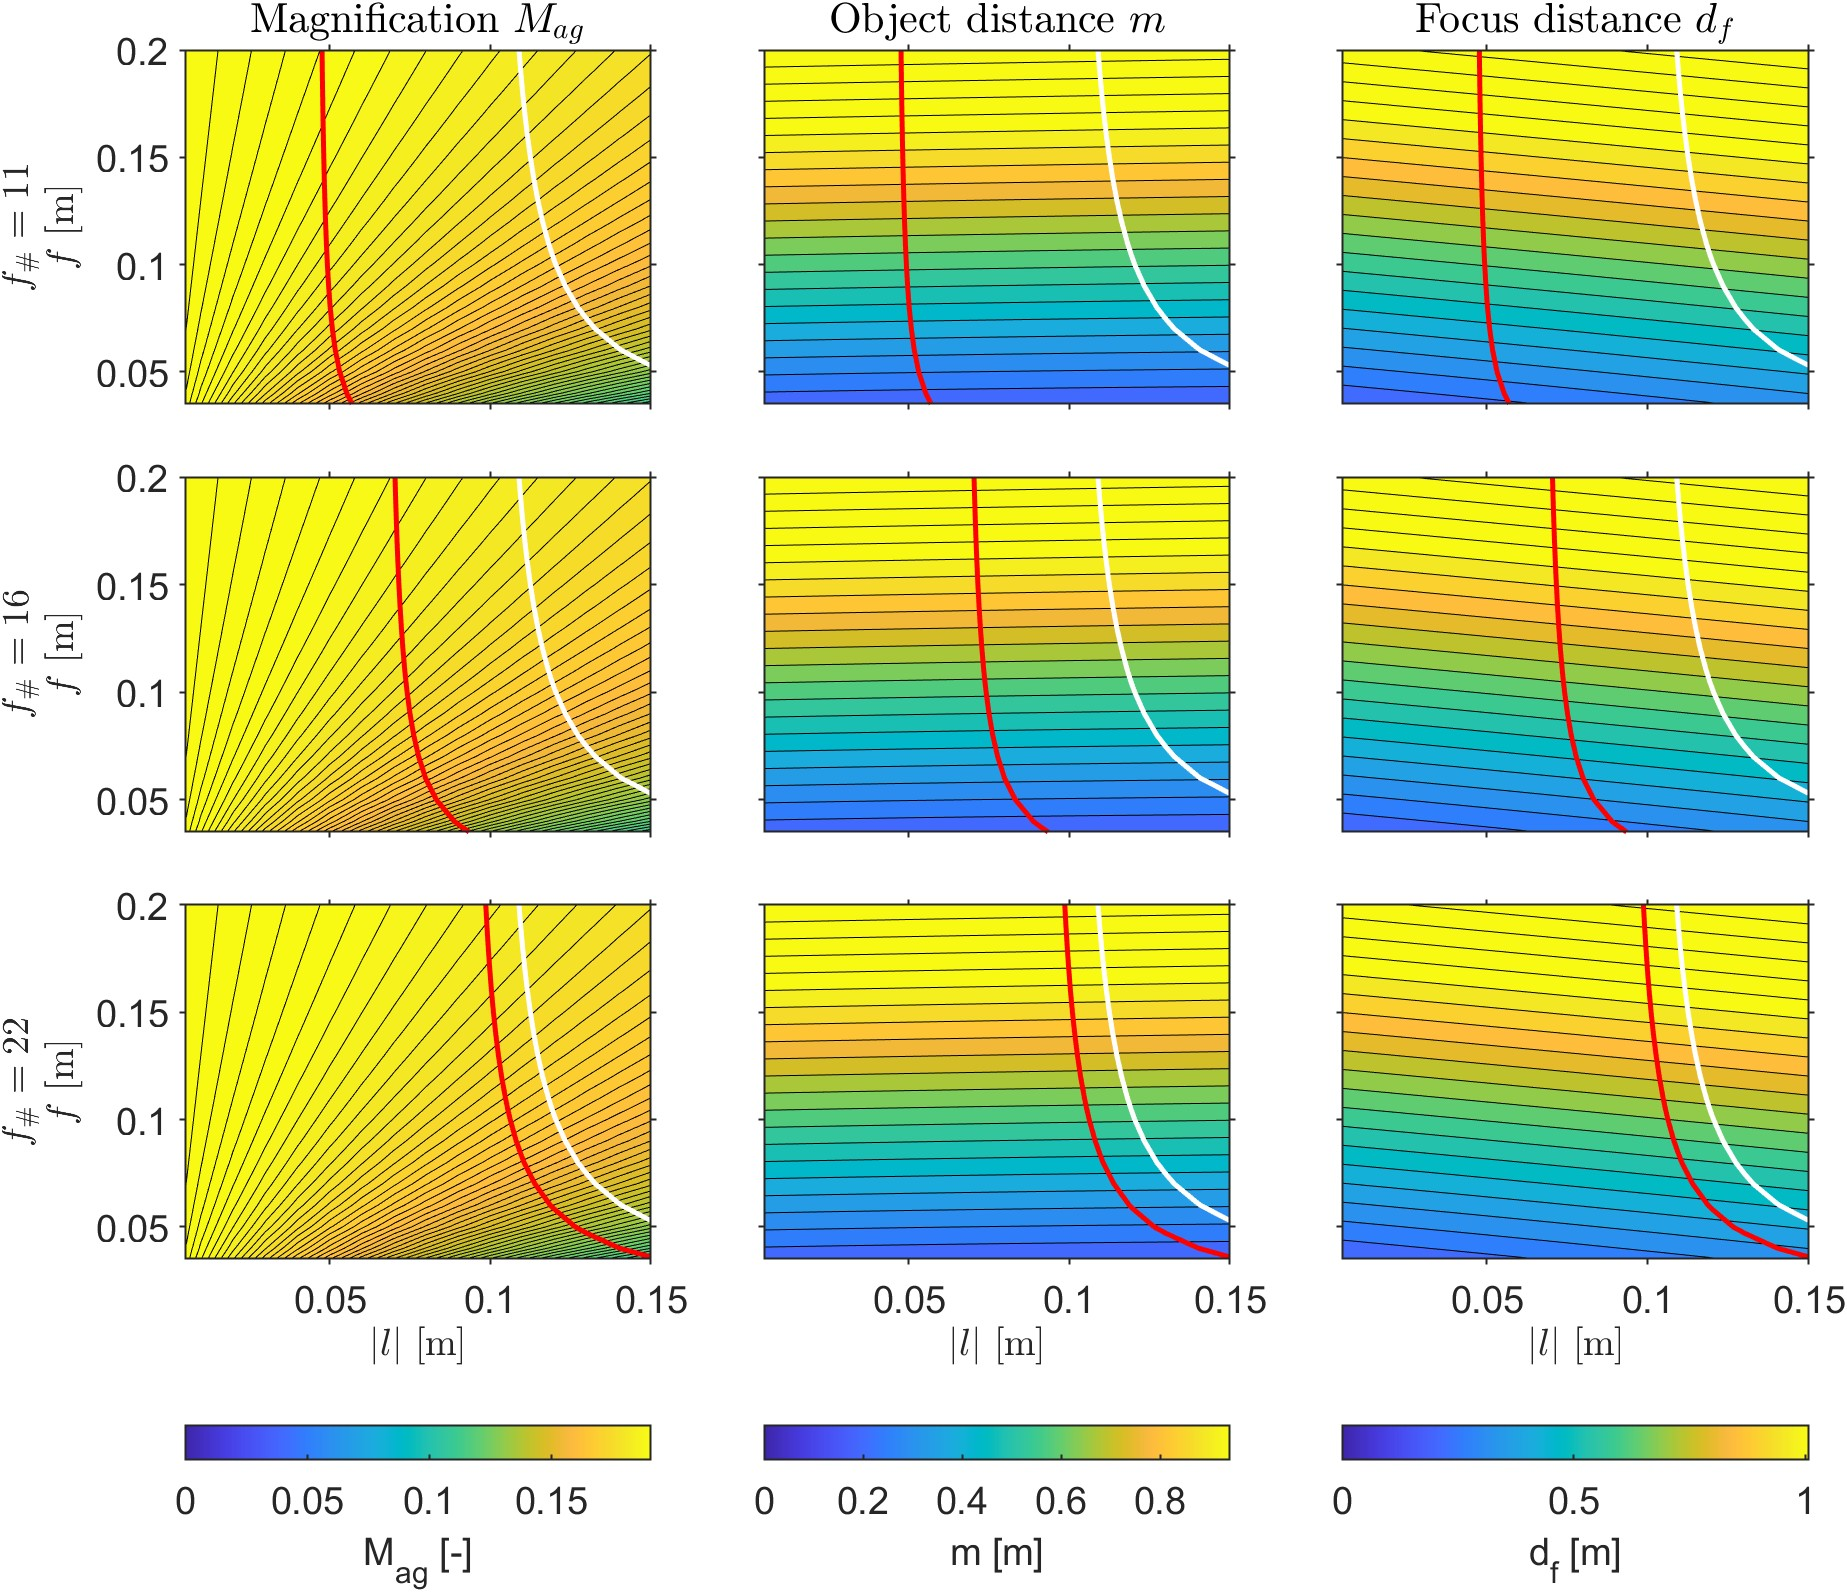
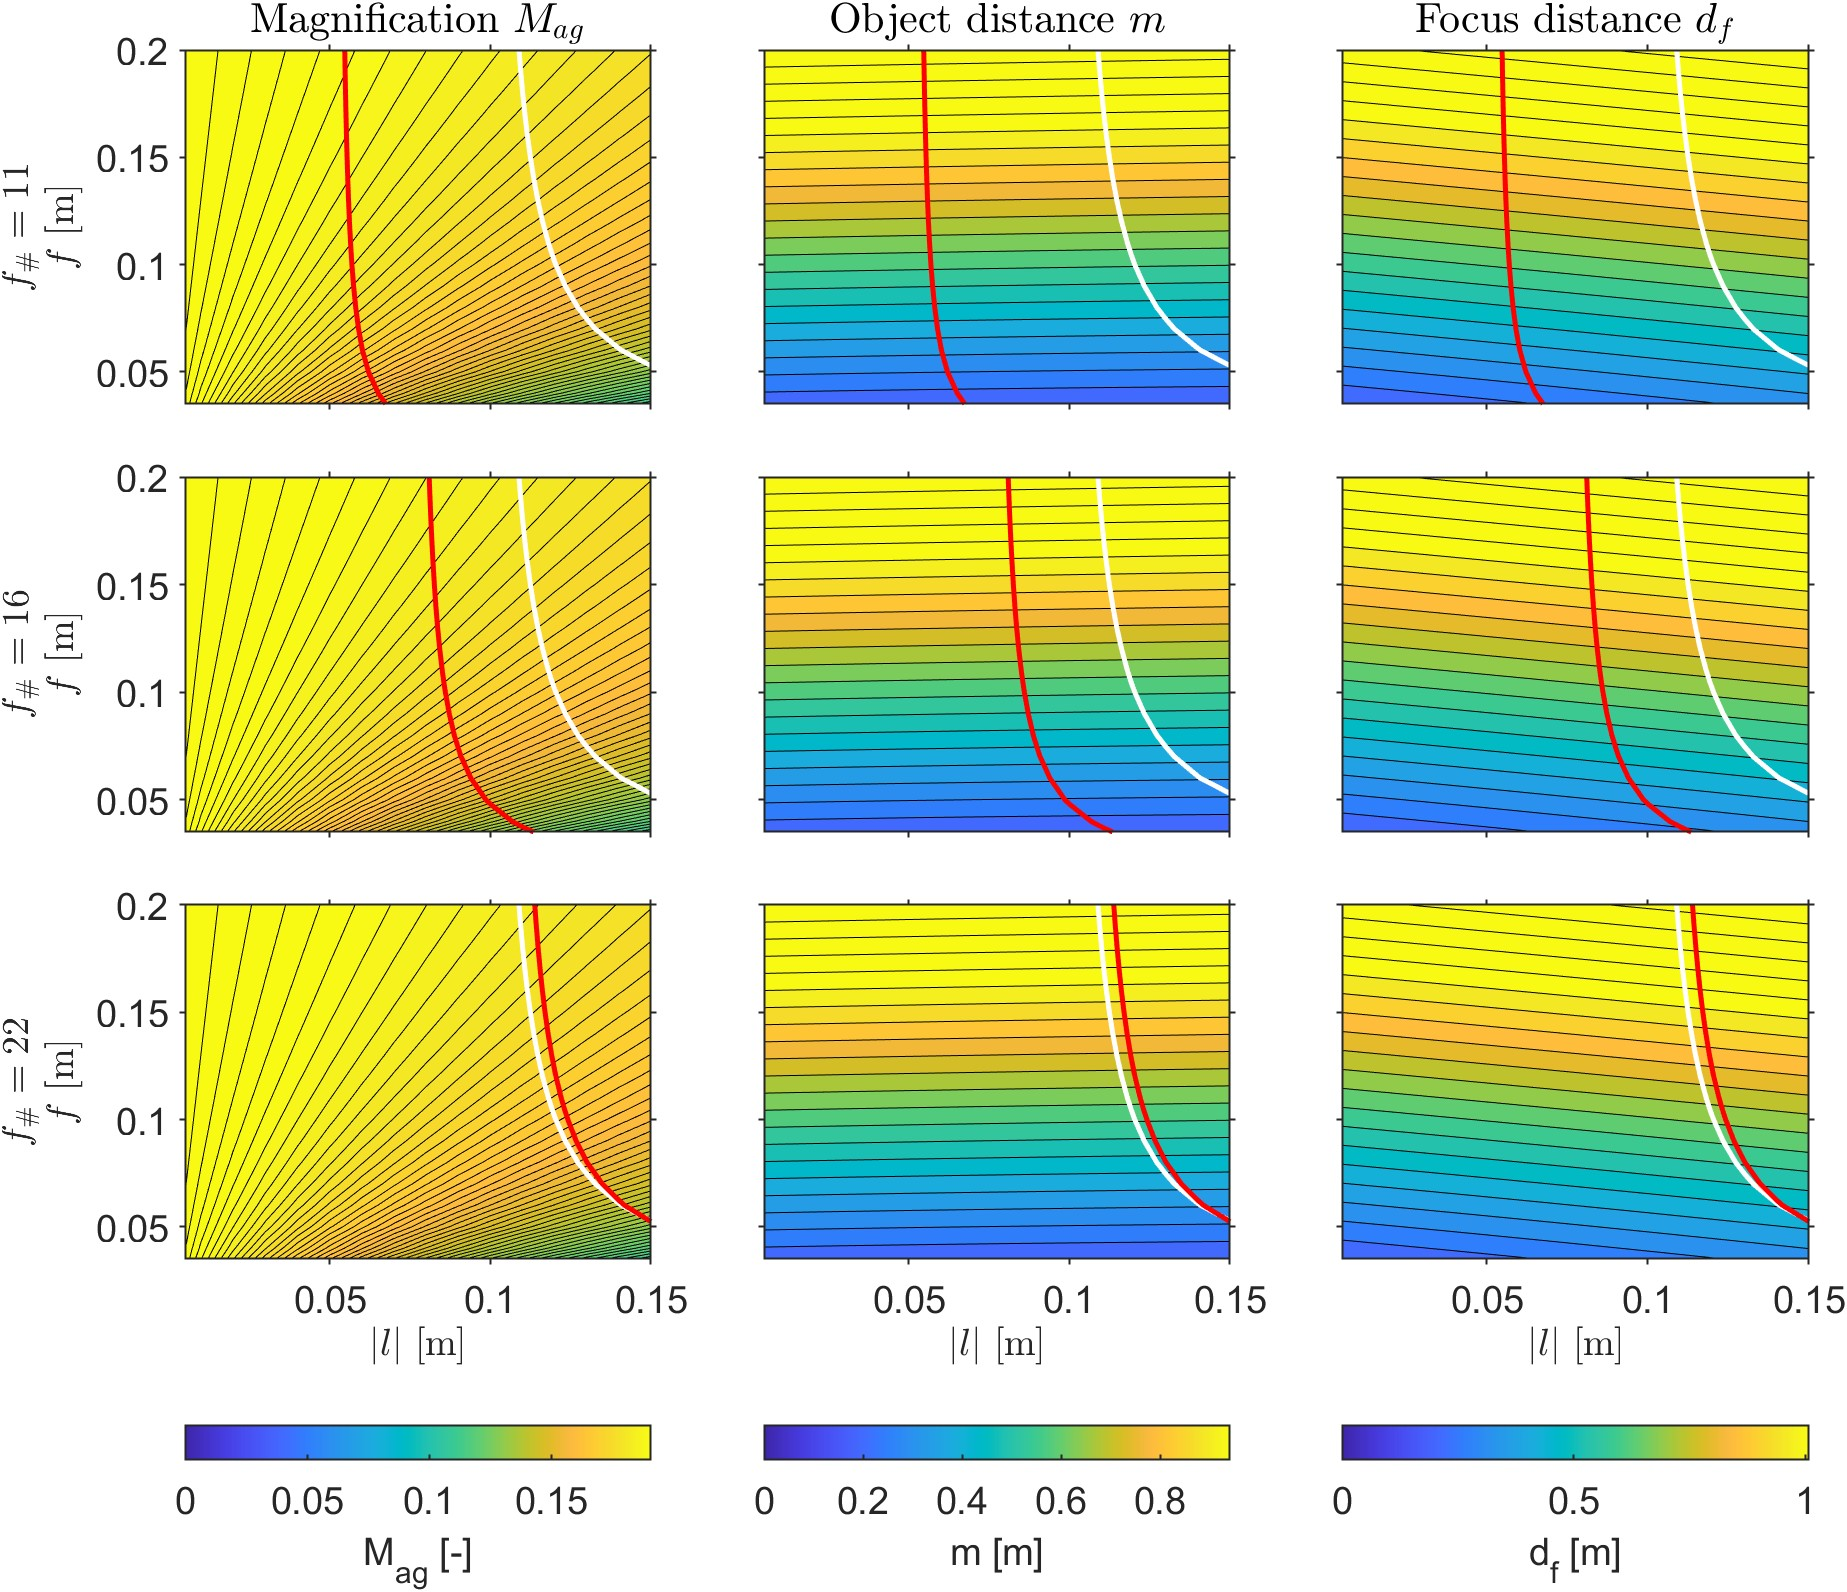
images

diff --git a/mainmatter/06_results.tex b/mainmatter/06_results.tex
@@ -294,7 +294,7 @@ Table \ref{tab: speckle results} and Figure \ref{fig: speckle size per point} sh
 
 \begin{figure}[htbp]
     \centering
-    \includegraphics[width=\textwidth]{figures/speckle size per point.jpg}
+    \includegraphics[width=\textwidth]{figures/speckle size per point.png}
     \caption[Average speckle size across the speckle investigation campaign]{Average speckle size of every point of Table \ref{tab: speckle results}, computed with the autocorrelation method of Hamarová et al. \cite{Hamarova2016} and with the DaVis function. The dashed lines separate the $f_\#$ and $d_{GG}$ sweeps, the magnification sweep and the projected speckle points. DaVis returned no value for point 10}
     \label{fig: speckle size per point}
 \end{figure}
@@ -332,7 +332,7 @@ Now that the error and uncertainties of the results have been discussed, the dat
 
 \begin{figure}[htbp]
     \centering
-    \includegraphics[width=\textwidth]{figures/speckle exp f-number sweep.png}
+    \includegraphics[width=0.9\textwidth]{figures/speckle exp f-number sweep.png}
     \caption[Average speckle size against f-stop number]{Average speckle size versus f-stop number for the four aperture sweeps of the speckle investigation campaign. The red and yellow lines correspond to points 1--3 and 4--6, which share $d_{GG} = 740$ mm at two different magnifications. The purple line corresponds to points 11--13, acquired at $d_{GG} = 300$ mm, and the green line to points 29--31, obtained with projected speckles at the same $d_{GG}$. The light blue line shows direct speckles interpolated to match the configuration of points 29--31}
     \label{fig: speckle f-number sweep}
 \end{figure}
@@ -345,7 +345,7 @@ As explained in chapter \ref{chapter: methodology}, the dependency on magnificat
 
 \begin{figure}[htbp]
     \centering
-    \includegraphics[width=\textwidth]{figures/speckle exp mag sweep.jpg}
+    \includegraphics[width=0.9\textwidth]{figures/speckle exp mag sweep.png}
     \caption[Average speckle size against optical magnification]{Average speckle size versus optical magnification for points 14--28 of Table \ref{tab: speckle results}, acquired at a fixed $f_\# = 22.63$ and $d_{GG} = 300$ mm. The magnification of these points was obtained from the distance marks of the camera lens rather than with the calibration plate}
     \label{fig: speckle magnification sweep}
 \end{figure}
@@ -357,7 +357,7 @@ Figure \ref{fig: speckle f-number sweep} also hints to the effect of the distanc
 
 \begin{figure}[htbp]
     \centering
-    \includegraphics[width=\textwidth]{figures/Speckle d_GG Sweep.jpg}
+    \includegraphics[width=0.9\textwidth]{figures/Speckle d_GG Sweep.png}
     \caption[Average speckle size against beam expander distance]{Average speckle size versus the distance between the beam expander lens and the ground glass diffuser, for points 5 and 7--10 of Table \ref{tab: speckle results}, all acquired at $f_\# = 11.31$ and $M_{ag_{exp}} = 0.296$}
     \label{fig: speckle dGG sweep}
 \end{figure}

diff --git a/appendix/appendix-c.tex b/appendix/appendix-c.tex
@@ -37,14 +37,14 @@
 \begin{figure}[htbp]
     \centering
     \includegraphics[width=1\textwidth]{figures/M,m,df surfmaps SBOS 70mm.jpg}
-    \caption[Surface maps of $M_{ag}$, $m$ and $d_f$ at 7 cm, negative defocus]{Surface maps of $M_{ag}$, $m$ and $d_f$ for $f_\# \in $ [11,16,22],  $f \in $ (0.035,0.200), $l \in$ (0.005,0.15) and $L_{FoV_{obj}}=$ 7cm of a negative defocus setup, with the red isoline representing the points where $s_{min}$ =0.00035 m and the white line showing $S=0.02$}
+    \caption[Surface maps of $M_{ag}$, $m$ and $d_f$ at 7 cm, negative defocus]{Surface maps of $M_{ag}$, $m$ and $d_f$ for $f_\# \in $ [11,16,22],  $f \in $ (0.035,0.200), $l \in$ (0.005,0.15) and $L_{FoV_{obj}}=$ 7cm of a negative defocus setup, with the red isoline representing the points where $s_{min}$ =0.0004 m and the white line showing $S=0.02$}
     \label{fig: M,m,df surfmap SBOS 70mm}
 \end{figure}
 
 \begin{figure}[htbp]
     \centering
     \includegraphics[width=1\textwidth]{figures/M,m,df surfmaps BOS 70mm.jpg}
-    \caption[Surface maps of $M_{ag}$, $m$ and $d_f$ at 7 cm, positive defocus]{Surface maps of $M_{ag}$, $m$ and $d_f$ for $f_\# \in $ [11,16,22],  $f \in $ (0.035,0.200), $l \in$ (0.005,0.15) and $L_{FoV_{obj}}=$ 7cm of a positive defocus setup, with the red isoline representing the points where $s_{min}$ =0.00035 m and the white line showing $S=0.02$}
+    \caption[Surface maps of $M_{ag}$, $m$ and $d_f$ at 7 cm, positive defocus]{Surface maps of $M_{ag}$, $m$ and $d_f$ for $f_\# \in $ [11,16,22],  $f \in $ (0.035,0.200), $l \in$ (0.005,0.15) and $L_{FoV_{obj}}=$ 7cm of a positive defocus setup, with the red isoline representing the points where $s_{min}$ =0.0004 m and the white line showing $S=0.02$}
     \label{fig: M,m,df surfmap BOS 70mm}
 \end{figure}
 
@@ -61,6 +61,6 @@
     \caption{}
     \label{fig: Delta s surfmap BOS 70mm}
   \end{subfigure}
-  \caption[Surface maps of $\Delta s$ at 7 cm]{Surface maps of $\Delta s$ for $f_\# \in $ [11,16,22],  $f \in $ (0.035,0.200), $l \in$ (0.005,0.15) and $L_{FoV_{obj}}=$ 7cm of a negative defocus setup (a) and a positive defocus setup (b), with the red isoline representing the points where $s_{min}$ =0.00035 m and the white line showing $S=0.02$}
+  \caption[Surface maps of $\Delta s$ at 7 cm]{Surface maps of $\Delta s$ for $f_\# \in $ [11,16,22],  $f \in $ (0.035,0.200), $l \in$ (0.005,0.15) and $L_{FoV_{obj}}=$ 7cm of a negative defocus setup (a) and a positive defocus setup (b), with the red isoline representing the points where $s_{min}$ =0.0004 m and the white line showing $S=0.02$}
   \label{fig: Delta s surfmap 70mm}
 \end{figure}

diff --git a/mainmatter/04_methodology.tex b/mainmatter/04_methodology.tex
@@ -217,7 +217,7 @@ follow from Equations \ref{equation: smin} and \ref{equation: Rayleigh Limit}. T
 
 \subsection{Effect of FoV}
 \label{subsection: Effects of FoV}
-\par Even though the proof of concept experiment will use a small field of view, the effect of scaling the field of view will be investigated to generalize the presented guidelines. Surface maps will be used to compare the trends in sensitivity and spatial resolution of negative and positive defocus setups when the $L_{FoV_{obj}}$ is changed from 2 cm to 7 cm. Figure \ref{fig: Surface maps altering FoV} shows these graphs, surface maps for other parameters can be found in Appendix \ref{Appendix: Supplementary Surface Maps}. For this case, the red isoline value has been slightly modified to $s_{min}$ =0.00035 m. However it still allows the comparison with previous images given the very small difference between them.
+\par Even though the proof of concept experiment will use a small field of view, the effect of scaling the field of view will be investigated to generalize the presented guidelines. Surface maps will be used to compare the trends in sensitivity and spatial resolution of negative and positive defocus setups when the $L_{FoV_{obj}}$ is changed from 2 cm to 7 cm. Figure \ref{fig: Surface maps altering FoV} shows these graphs, surface maps for other parameters can be found in Appendix \ref{Appendix: Supplementary Surface Maps}. The isolines keep the same values as the previous sections, $s_{min}$ =0.0004 m in red and $S$ = 0.02 in white, so both field of view cases can be read directly against each other.
 
 \begin{figure}[htbp]
   \centering
@@ -230,7 +230,7 @@ follow from Equations \ref{equation: smin} and \ref{equation: Rayleigh Limit}. T
     \includegraphics[width=\textwidth]{figures/Sensitivity and smin BOS surf map 70mm.jpg}
     \caption{}
   \end{subfigure}
-  \caption[Surface maps for a 7 cm field of view]{Surface maps of $S$ and $s_{min}$ for $f_\# \in $ [11,16,22],  $f \in $ (0.035,0.200), $l \in$ (0.005,0.15) and $L_{FoV_{obj}}=$ 7cm of a negative defocus setup (a) and a positive defocus setup (b), with the red isoline representing the points where $s_{min}$ =0.00035 m and the white line showing $S=0.02$}
+  \caption[Surface maps for a 7 cm field of view]{Surface maps of $S$ and $s_{min}$ for $f_\# \in $ [11,16,22],  $f \in $ (0.035,0.200), $l \in$ (0.005,0.15) and $L_{FoV_{obj}}=$ 7cm of a negative defocus setup (a) and a positive defocus setup (b), with the red isoline representing the points where $s_{min}$ =0.0004 m and the white line showing $S=0.02$}
   \label{fig: Surface maps altering FoV}
 \end{figure}
 
